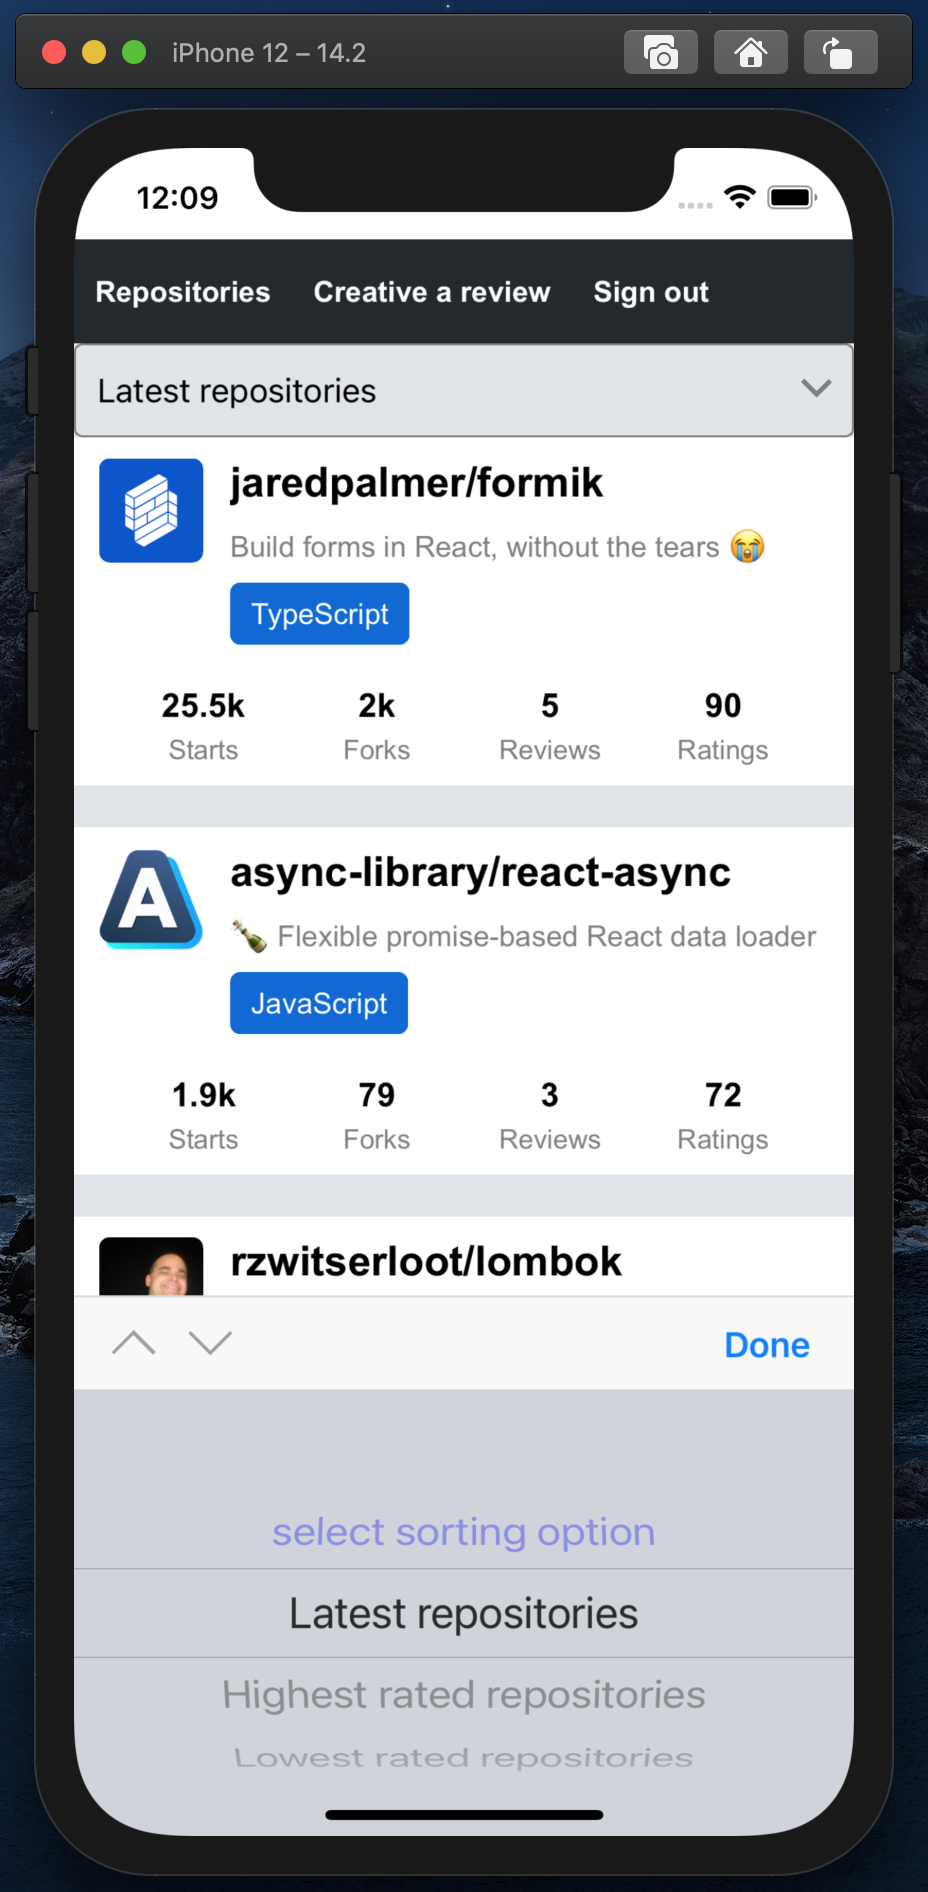
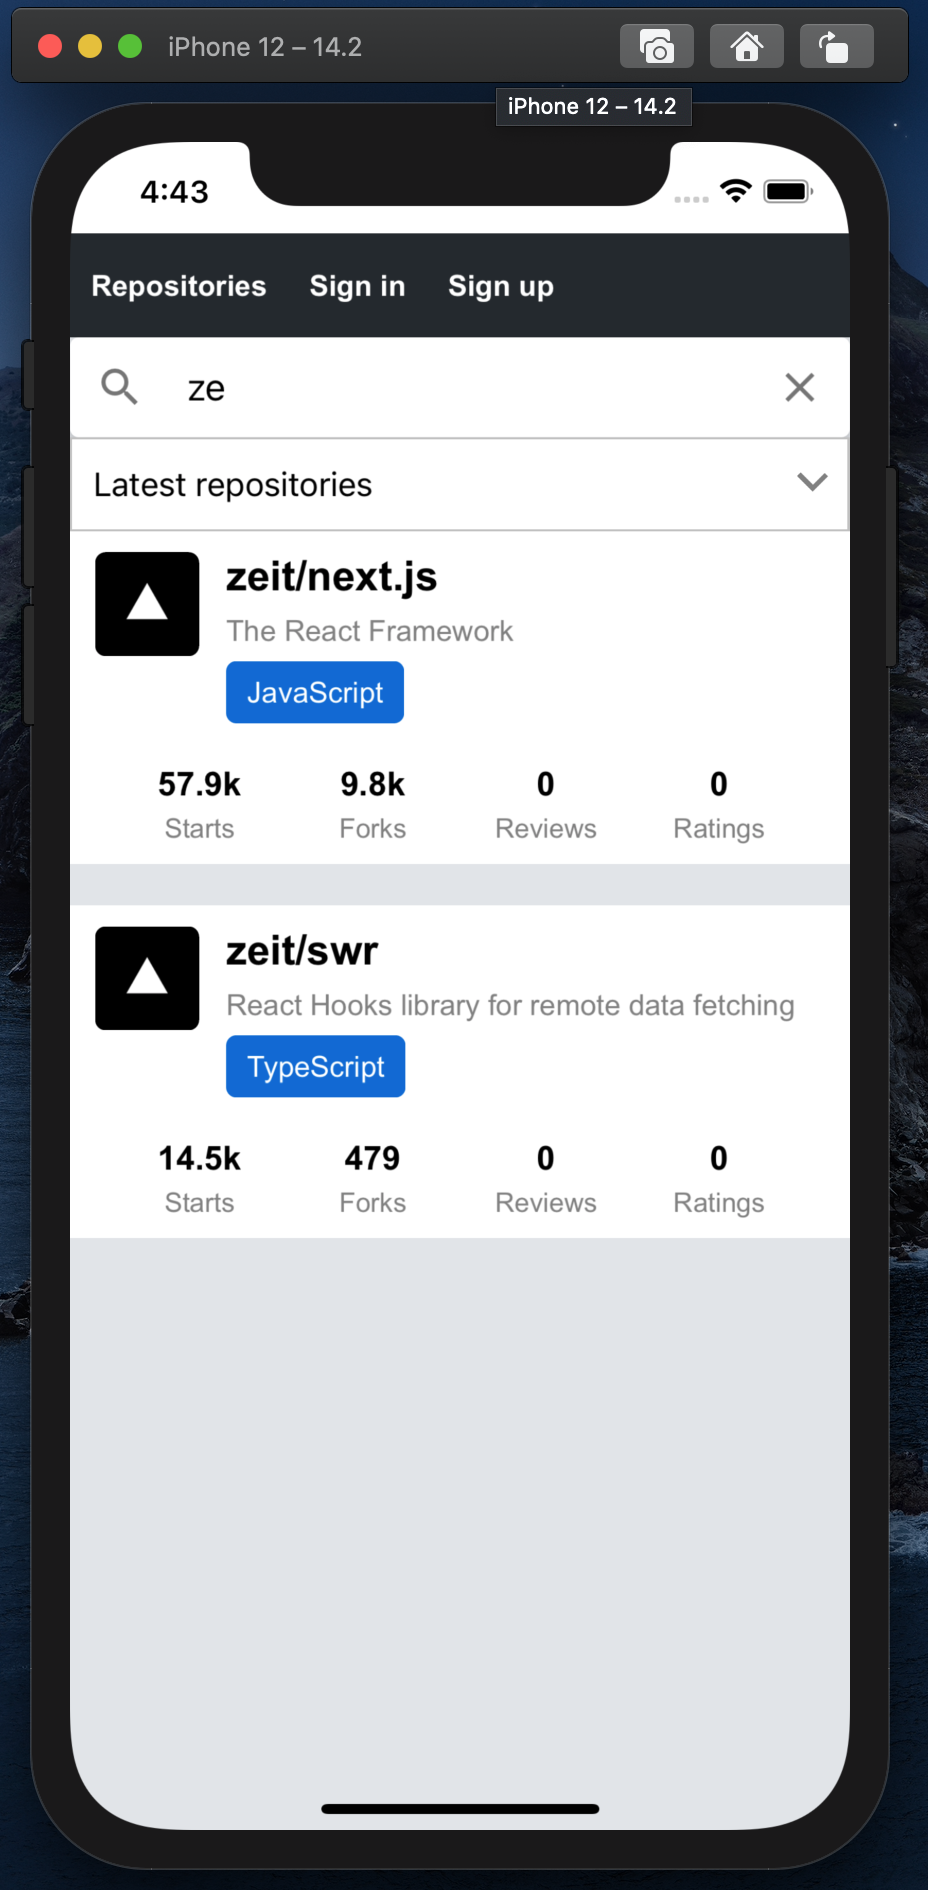
added Ex24

diff --git a/Part_10/Part03/Ex24/src/components/RepositoryList.jsx b/Part_10/Part03/Ex24/src/components/RepositoryList.jsx
@@ -6,6 +6,7 @@ import { useHistory } from "react-router-native";
 import RNPickerSelect from 'react-native-picker-select';
 import { Chevron } from 'react-native-shapes';
 import { Searchbar } from 'react-native-paper';
+import { useDebouncedCallback } from 'use-debounce';
 
 const styles = StyleSheet.create({
   separator: {
@@ -22,7 +23,7 @@ const pickerSelectStyles = StyleSheet.create({
     borderColor: 'silver',
     color: 'black',
     backgroundColor: 'white',
-    paddingRight: 30, // to ensure the text is never behind the icon
+    paddingRight: 30,
   },
   inputAndroid: {
     fontSize: 16,
@@ -32,7 +33,7 @@ const pickerSelectStyles = StyleSheet.create({
     borderColor: 'purple',
     borderRadius: 8,
     color: 'black',
-    paddingRight: 30, // to ensure the text is never behind the icon
+    paddingRight: 30,
   },
   iconContainer: {
     top: 17,
@@ -42,133 +43,79 @@ const pickerSelectStyles = StyleSheet.create({
 
 const ItemSeparator = () => <View style={styles.separator} />;
 
-export class RepositoryListContainer extends React.Component {
+export const RepositoryListContainer = ({ repositories, onPress, onOrderSelected, onSearcKeyword }) => {
+  const [selected, setSelected] = useState('latest');
+  const [search, setSearch] = React.useState('');
+  const repositoryItems = repositories
+    ? repositories.edges.map(node => node.node)
+    : [];
+  const debounced = useDebouncedCallback(
+    (value) => {
+      onSearcKeyword(value);
+    },
+    500
+  );
 
-  constructor(props) {
-    super(props);
-    this.state = {
-      selected: 'latest',
-      search: ''
-    };
-  }
-
-  OrderingMenu = () => {
+  const OrderingMenu = () => {
     return (
-      <View>
-        <Searchbar
-          placeholder="Search"
-          onChangeText={(value) => { this.setState({ search: value }); }}
-          value={this.state.search}
-        />
-        {/* <RNPickerSelect style={pickerSelectStyles}
-          onValueChange={(value) => { this.setState({ selected: value }); this.props.onOrderSelected(value); }}
-          value={this.state.selected}
-          placeholder={{ label: 'select sorting option', value: null, color: 'blue', }}
-          items={[
-            { label: 'Latest repositories', value: 'latest' },
-            { label: 'Highest rated repositories', value: 'highest' },
-            { label: 'Lowest rated repositories', value: 'lowest' },
-          ]}
-          Icon={() => {
-            return <Chevron size={1.5} color="gray" />;
-          }}
-        /> */}
-      </View>
-    );
-  }
-
-  render() {
-    const repositoryItems = this.props.repositories
-      ? this.props.repositories.edges.map(node => node.node)
-      : [];
-    return (
-      <FlatList
-        data={repositoryItems}
-        ItemSeparatorComponent={ItemSeparator}
-        keyExtractor={(item) => item.id}
-        ListHeaderComponent={() => <this.OrderingMenu />}
-        // renderItem={({ item }) => {
-        //   return (
-        //     <TouchableOpacity onPress={() => this.props.onPress(item)}>
-        //       <RepositoryItem item={item} />
-        //     </TouchableOpacity>
-        //   );
-        // }}
+      <RNPickerSelect style={pickerSelectStyles}
+        onValueChange={(value) => { setSelected(value); onOrderSelected(value); }}
+        value={selected}
+        placeholder={{ label: 'select sorting option', value: null, color: 'blue', }}
+        items={[
+          { label: 'Latest repositories', value: 'latest' },
+          { label: 'Highest rated repositories', value: 'highest' },
+          { label: 'Lowest rated repositories', value: 'lowest' },
+        ]}
+        Icon={() => {
+          return <Chevron size={1.5} color="gray" />;
+        }}
       />
     );
-  }
+  };
 
+  return (
+    <FlatList
+      data={repositoryItems}
+      ItemSeparatorComponent={ItemSeparator}
+      keyExtractor={(item) => item.id}
+      ListHeaderComponent={
+        (
+          <View>
+            <Searchbar
+              placeholder="Search"
+              onChangeText={(value) => { setSearch(value); debounced.callback(value); }}
+              value={search}
+            />
+            <OrderingMenu />
+          </View>
+        )
+      }
 
-
-
-
-
-
-
-
-
-
-
-}
-
-
-// export const RepositoryListContainer = ({ repositories, onPress, onOrderSelected }) => {
-//   const [selected, setSelected] = useState('latest');
-//   const [search, setSearch] = React.useState('');
-//   const repositoryItems = repositories
-//     ? repositories.edges.map(node => node.node)
-//     : [];
-
-//   const OrderingMenu = () => {
-//     return (
-//       <View>
-//         <Searchbar
-//           placeholder="Search"
-//           onChangeText={(value) => { setSearch(value);}}
-//           value={search}
-//         />
-//         <RNPickerSelect style={pickerSelectStyles}
-//           onValueChange={(value) => { setSelected(value); onOrderSelected(value); }}
-//           value={selected}
-//           placeholder={{ label: 'select sorting option', value: null, color: 'blue', }}
-//           items={[
-//             { label: 'Latest repositories', value: 'latest' },
-//             { label: 'Highest rated repositories', value: 'highest' },
-//             { label: 'Lowest rated repositories', value: 'lowest' },
-//           ]}
-//           Icon={() => {
-//             return <Chevron size={1.5} color="gray" />;
-//           }}
-//         />
-//       </View>
-//     );
-//   };
-
-//   return (
-//     <FlatList
-//       data={repositoryItems}
-//       ItemSeparatorComponent={ItemSeparator}
-//       keyExtractor={(item) => item.id}
-//       ListHeaderComponent={() => <OrderingMenu />}
-//       renderItem={({ item }) => {
-//         return (
-//           <TouchableOpacity onPress={() => onPress(item)}>
-//             <RepositoryItem item={item} />
-//           </TouchableOpacity>
-//         );
-//       }}
-//     />
-//   );
-// };
+      renderItem={({ item }) => {
+        return (
+          <TouchableOpacity onPress={() => onPress(item)}>
+            <RepositoryItem item={item} />
+          </TouchableOpacity>
+        );
+      }}
+    />
+  );
+};
 
 const RepositoryList = () => {
   const [orderDirection, setOrderDirection] = useState(1);
   const [orderBy, setOrderBy] = useState(0);
-  const { repositories } = useRepositories(orderDirection, orderBy);
+  const [searchKeyword, setSearchKeyword] = useState(0);
+  const { repositories } = useRepositories(orderDirection, orderBy, searchKeyword);
   const history = useHistory();
 
   const onPress = (item) => {
     history.push(`/repository/${item.id}`);
+  };
+
+  const onSearcKeyword = (searchKeyword) => {
+    setSearchKeyword(searchKeyword);
   };
 
   const onOrderSelected = (value) => {
@@ -180,7 +127,7 @@ const RepositoryList = () => {
   };
 
   return (
-    <RepositoryListContainer repositories={repositories} onPress={onPress} onOrderSelected={onOrderSelected} />
+    <RepositoryListContainer repositories={repositories} onPress={onPress} onOrderSelected={onOrderSelected} onSearcKeyword={onSearcKeyword} />
   );
 };
 

diff --git a/Part_10/Part03/Ex24/src/hooks/useRepositories.js b/Part_10/Part03/Ex24/src/hooks/useRepositories.js
@@ -5,11 +5,11 @@ import { useQuery } from '@apollo/react-hooks';
 const OrderDirection = ['ASC', 'DESC'];
 const OrderBy = ['CREATED_AT', 'RATING_AVERAGE'];
 
-const useRepositories = (orderDirection = 1, orderBy = 0) => {
+const useRepositories = (orderDirection = 1, orderBy = 0 , searchKeyword = '') => {
   const [repositories, setRepositories] = useState();
   const result = useQuery(GET_REPOSITORIES, {
     tchPolicy: 'cache-and-network',
-    variables: { orderDirection: OrderDirection[orderDirection], orderBy: OrderBy[orderBy] }
+    variables: { orderDirection: OrderDirection[orderDirection], orderBy: OrderBy[orderBy], searchKeyword:searchKeyword}
   });
 
   useEffect(() => {

diff --git a/Part_10/Part03/Ex24/src/graphql/queries.js b/Part_10/Part03/Ex24/src/graphql/queries.js
@@ -86,8 +86,8 @@ query repository($id:ID!) {
 ;
 
 export const GET_REPOSITORIES = gql`
-query repositories($orderDirection:OrderDirection , $orderBy:AllRepositoriesOrderBy){
-  repositories(orderDirection:$orderDirection , orderBy:$orderBy){
+query repositories($orderDirection:OrderDirection , $orderBy:AllRepositoriesOrderBy , $searchKeyword:String){
+  repositories(orderDirection:$orderDirection , orderBy:$orderBy , searchKeyword:$searchKeyword){
      edges{
       node{
           id
